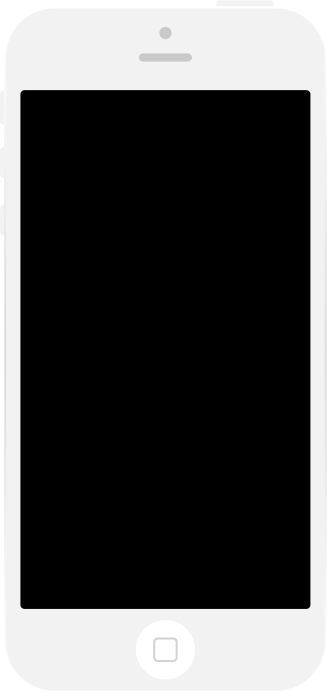
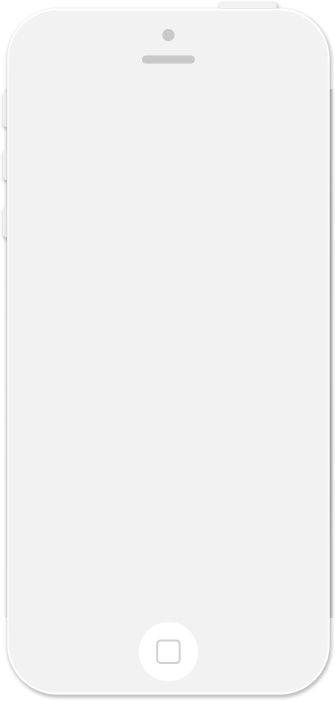
123

diff --git a/html5/class5.html b/html5/class5.html
@@ -1,0 +1,154 @@
+<!DOCTYPE html>
+<html>
+<head lang="en">
+    <meta charset="UTF-8">
+    <title></title>
+</head>
+<body>
+<style>
+    .box {
+        width: 50vw;
+        height: 50vw;
+        background: #f00;
+        margin: auto;
+        display: flex;
+        align-items: center;
+    }
+
+    .box2 {
+        width: 40vw;
+        height: 40vw;
+        background: #f19149;
+        margin: auto;
+        display: flex;
+        align-items: center;
+    }
+
+    .box3 {
+        width: 30vw;
+        height: 30vw;
+        background: #4c5893;
+        margin: auto;
+        display: flex;
+        align-items: center;
+    }
+
+    .box4 {
+        width: 20vw;
+        height: 20vw;
+        background: #51856f;
+        margin: auto;
+        display: flex;
+        align-items: center;
+    }
+
+    .box5 {
+        width: 10vw;
+        height: 10vw;
+        background: #c0c0c0;
+        margin: auto;
+        display: flex;
+        align-items: center;
+    }
+
+
+</style>
+
+在大的矩形内：
+
+<style>
+    .box80 {
+        background: #4c5893;
+        width: 80vw;
+        height: 20vh;
+        margin: 10px auto;
+        display: flex;
+        align-items: center;
+    }
+
+    .box30 {
+        background: #4c5893;
+        width: 30vw;
+        height: 20vh;
+        margin: 10px auto;
+        display: flex;
+        align-items: center;
+    }
+
+    .box50 {
+        background: #4c5893;
+        width: 50vw;
+        height: 20vh;
+        margin: 10px auto;
+        display: flex;
+        align-items: center;
+    }
+
+    .r {
+        width: 50%;
+        height: 50%;
+        background: #fff;
+        border-radius: 50%;
+        margin: auto;
+        display: block;
+    }
+
+    .rr {
+        width: 10vw;
+        height: 10vw;
+        background: #fff;
+        border-radius: 50%;
+        margin: auto;
+        display: block;
+    }
+</style>
+
+在大的矩形内：
+<section class="box80">
+    <section class="r"></section>
+</section>
+
+在中的矩形内：
+<section class="box50">
+    <section class="r"></section>
+</section>
+
+在小的矩形内：
+<section class="box30">
+    <section class="r"></section>
+</section>
+
+
+<br/>
+
+在大的矩形内：
+<section class="box80">
+    <section class="rr"></section>
+</section>
+
+在中的矩形内：
+<section class="box50">
+    <section class="rr"></section>
+</section>
+
+在小的矩形内：
+<section class="box30">
+    <section class="rr"></section>
+</section>
+
+下面这个图是怎么做到的呢？
+
+<section class="box">
+    <section class="box2">
+        <section class="box3">
+            <section class="box4">
+                <section class="box5">
+
+                </section>
+            </section>
+        </section>
+    </section>
+</section>
+000
+</body>
+</html>

diff --git a/works/hot2/index.html b/works/hot2/index.html
@@ -23,7 +23,19 @@
 
         </div>
 
-        <div class="phone"></div>
+        <div class="phone">
+            <div class="window">
+                <!-- 滚动开始 -->
+                <div class="pages">
+                    <img class="page" src="img/page1.png" alt=""/>
+                    <img class="page" src="img/page2.png" alt=""/>
+                    <img class="page" src="img/page3.png" alt=""/>
+                    <img class="page" src="img/page4.png" alt=""/>
+                    <img class="page" src="img/page5.png" alt=""/>
+                </div>
+                <!-- 滚动结束 -->
+            </div>
+        </div>
     </div>
 </div>
 <div class="media_say">

diff --git a/works/hot2/style.css b/works/hot2/style.css
@@ -115,6 +115,28 @@ body {
     background-size: 100%;
     background-repeat: no-repeat;
 }
+
+.window {
+    position: absolute;
+    width: 87%;
+    left: 7%;
+    top: 13%;
+    height: 72%;
+    background-color: #000;
+    border-radius: 0.5vw;
+    overflow: hidden;
+}
+.pages{
+    width: 500%;
+    height: 100%;
+}
+.page{
+    width:20%;
+    margin: 0;
+    padding: 0;
+    float: left;
+    clear: none;
+}
 /*
 .phone:before{
     width: 20vw;
